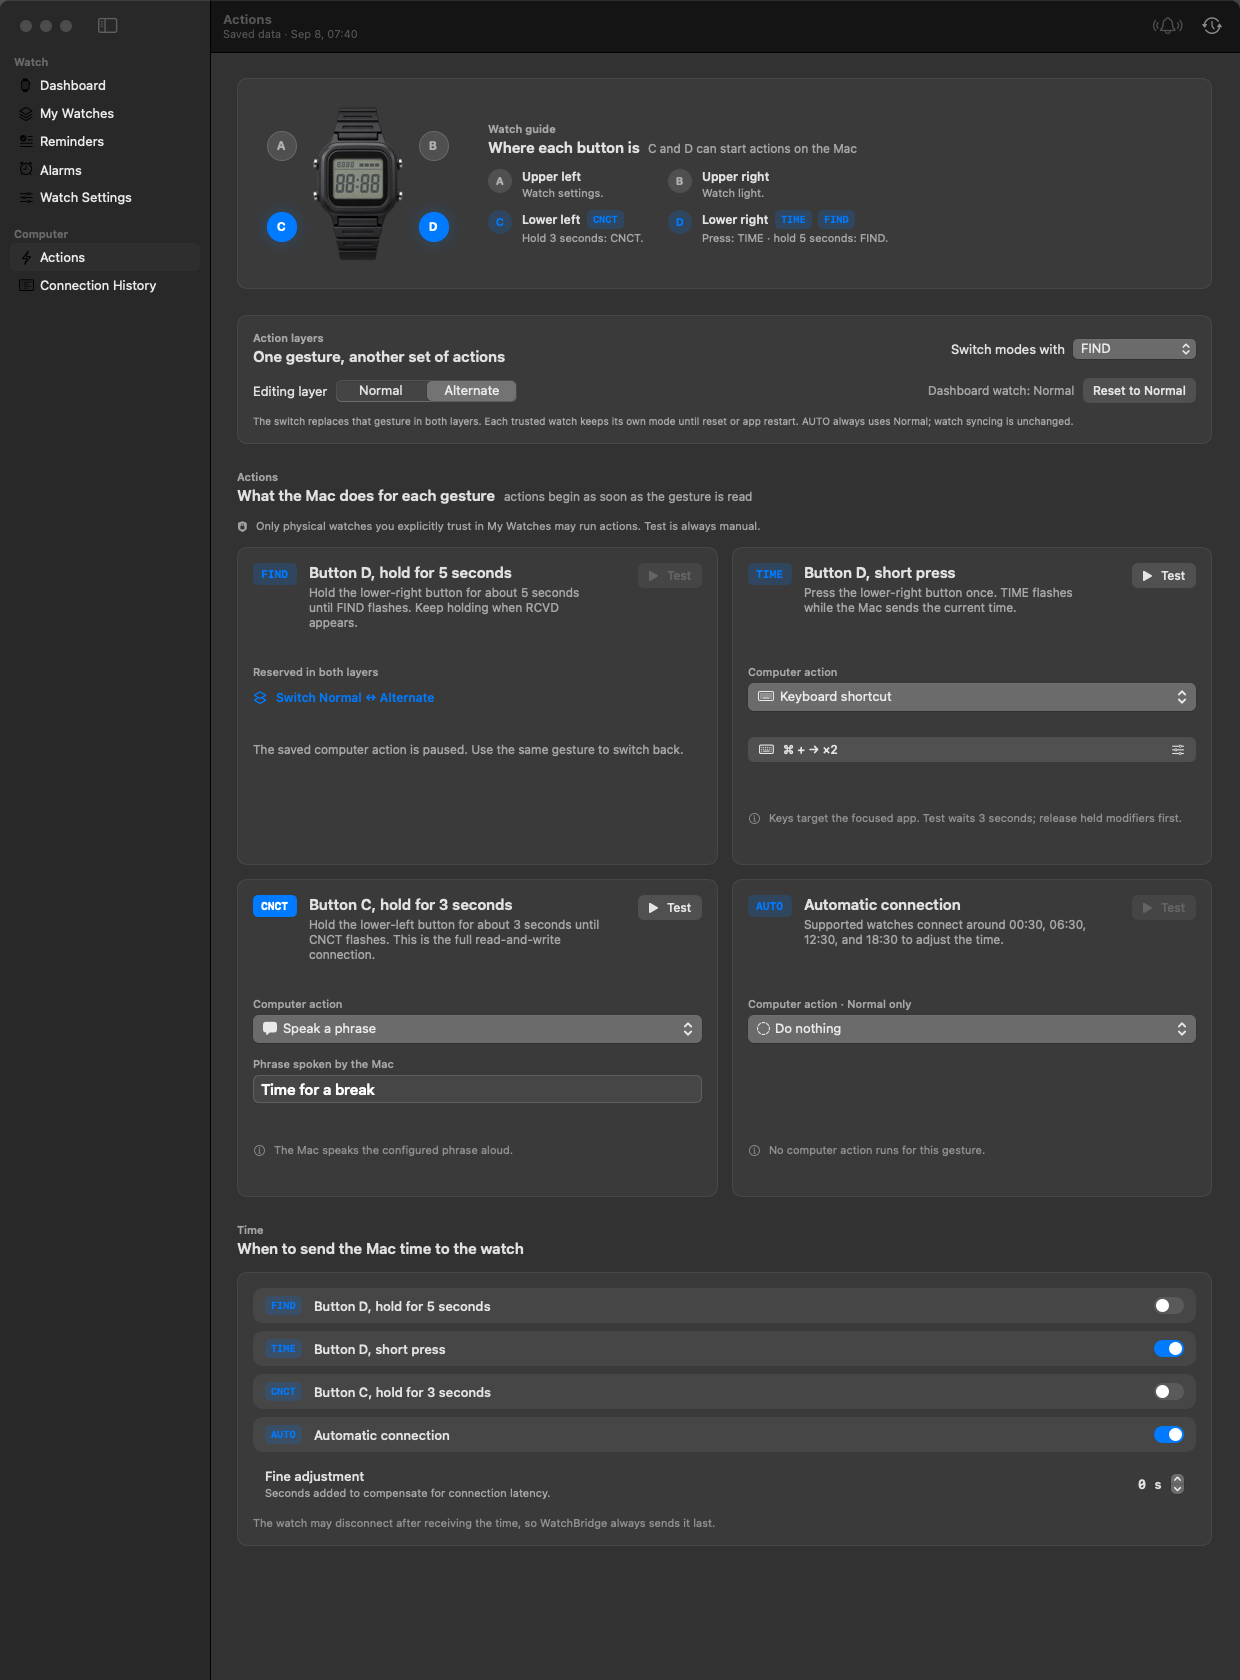
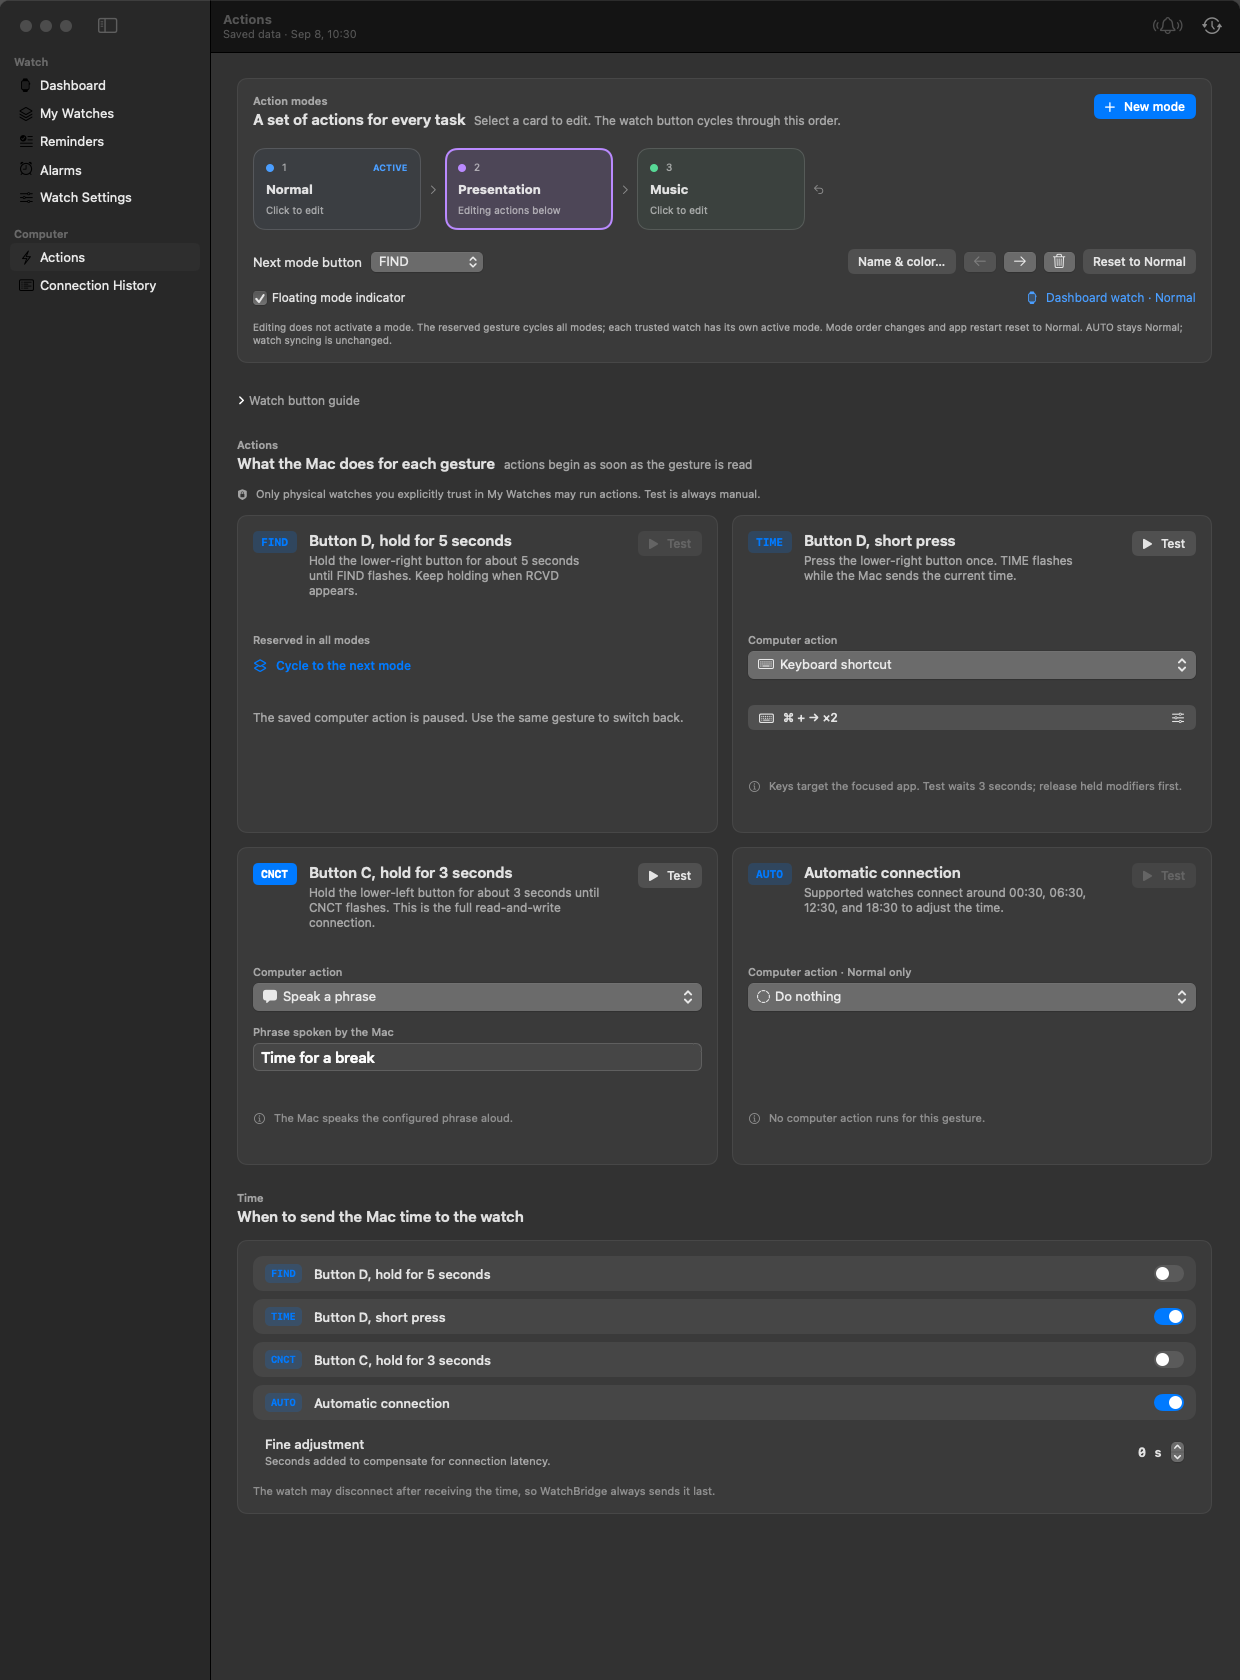
Polish mode help and verify native recorder layouts

diff --git a/apps/macos/Sources/WatchBridge/UI/ActionsView.swift b/apps/macos/Sources/WatchBridge/UI/ActionsView.swift
@@ -122,7 +122,7 @@ struct ActionEditor: View {
                     }
                 }
                 if isSwitch {
-                    Text("The saved computer action is paused. Use the same gesture to switch back.")
+                    Text("The saved computer action is paused. Repeat this gesture to cycle through your modes and return to Normal.")
                         .font(.callout).foregroundStyle(Theme.text2).frame(minHeight: 48)
                 } else if action.kind == .keyboard {
                     Button { showingKeyboard = true } label: {

diff --git a/crates/windows/src/main.rs b/crates/windows/src/main.rs
@@ -41,9 +41,9 @@ fn main() -> anyhow::Result<()> {
             env_flag("--keyboard"),
             env_flag("--minimum-size"),
             if env_flag("--second-row") {
-                880.0
+                1040.0
             } else if env_flag("--cards") {
-                370.0
+                540.0
             } else {
                 0.0
             },

diff --git a/design-qa.md b/design-qa.md
@@ -6,10 +6,10 @@ The committed images in `docs/screenshots/` are **offscreen full-window previews
 
 The intended layout retains the reference's prominent watch image, cached status and two-column action grid. A neutral shared watch PNG replaces manufacturer imagery; both Dashboard and button guide use it. Action cards reserve common header/control/value/help regions.
 
-The current Dashboard, Actions and keyboard images were generated in [CI run 34200458420](https://github.com/WerrySs/watch-actions-gshock-casio/actions/runs/34200458420), from commit `496794e`, and inspected before inclusion. Default previews are 1240 × 800; the full Actions page uses 1240 × 1680. The same run includes 1080 × 700 minimum-size views and minimum-width full-page layer cards. My Watches remains the inspected [CI run 34106828540](https://github.com/WerrySs/watch-actions-gshock-casio/actions/runs/34106828540) fixture from `44d413b`; its view has not changed.
+The Actions and keyboard README images come from inspected [CI run 34215691461](https://github.com/WerrySs/watch-actions-gshock-casio/actions/runs/34215691461) fixtures at `104af5c`, showing named modes and the recorder. The same run includes minimum-width modes, expanded manual controls and the indicator. Dashboard remains the inspected [CI run 34200458420](https://github.com/WerrySs/watch-actions-gshock-casio/actions/runs/34200458420) fixture at `496794e`; My Watches remains [CI run 34106828540](https://github.com/WerrySs/watch-actions-gshock-casio/actions/runs/34106828540) at `44d413b`. Default previews are 1240 × 800; full Actions pages are 1240 × 1680, or 1080 wide at minimum size. These are representative layout previews; later help-text changes are reviewed in the CI artifacts.
 
 1. **Dashboard:** the default-size view fits saved readings and four gesture rows alongside the watch and sidebar. Identity controls are consolidated. At minimum size the content scrolls and long action labels truncate; interactive keyboard/tooltips still need checking.
-2. **Actions:** the full-page view shows four equal-height cards with aligned headers/selectors and the A/B/C/D guide. The default/minimum window scrolls inside the content, leaving navigation in place.
+2. **Actions:** the full-page view shows numbered modes, four equal-height gesture cards with aligned headers/selectors, and a collapsible A/B/C/D guide. The default/minimum window scrolls inside the content, leaving navigation in place.
 3. **My Watches:** two sample units fit at default size, with paired/trusted and registered/not-paired states distinguished. Model, local-photo, favorite and explicit-link controls remain visible.
 
 Source screenshots supplied by the owner are not committed: they include unrelated notifications and third-party product photography. The README uses only generated sample data and the project's neutral illustration, not an official model photograph.
@@ -20,7 +20,7 @@ The Dashboard now uses the watch name as the watch selector, with model/photo/fa
 
 ## Action-layer update — September 8, 2026
 
-The macOS target/protection banner now participates in the detail column's layout below the toolbar, leaving page headings unobscured. The Dashboard halo reaches full transparency inside the image bounds instead of using an oversized blurred texture. The Actions editor adds distinct active/edited layers and keeps common card heights; its visual keyboard has six key rows, explicit modifier selection, a repeat count and a safe-test notice.
+The first action-layer update placed the macOS target/protection banner in the detail column's layout below the toolbar, leaving page headings unobscured. The Dashboard halo reaches full transparency inside the image bounds instead of using an oversized blurred texture. That update added distinct active/edited layers and common card heights; its six-row visual keyboard has since been replaced by the recorder described below.
 
 Local sample-data renders were inspected for the keyboard, layer cards, Dashboard and default/minimum-size settings banner. The banner/content gap and halo fade are visible; macOS 26 still leaves offscreen sidebar/toolbar glass blank, so those full-window local images are not publication assets. CI renders keyboard, default/minimum settings, and full-page action-layer fixtures for review. Full-page fixtures are now 1240 × 1680 (or 1080 wide with `--minimum-size`) so the new controls do not truncate the time-sync section. Use `--action-layers --only actions` to select the new sample configuration and `--only keyboard` for the standalone keyboard.
 
@@ -41,6 +41,8 @@ The keyboard grid is replaced by an explicit Record/Stop flow and numbered key c
 Modes have numbered color-coded cards, separate active/editing text, name/color controls, reorder arrows and a deletion confirmation. The macOS button guide is collapsible so the mode controls and actions get priority. The optional Mac indicator uses a black capsule below the usable screen's top edge; it is nonactivating/click-through rather than a notch overlay. A pure frame test covers positive and negative-origin screen coordinates. Its sample render is not a photograph of a real notch or a multi-display acceptance result.
 
 Local minimum-size recorder, expanded manual, mode-card and name/color renders were inspected. Mac offscreen glass still leaves blank sidebar regions locally, so full-window README screenshots must come from inspected native CI outputs. Windows local renders here ran its production renderer on macOS; native Windows CPU fixtures are a separate required CI review. Neither certifies actual Windows input, GPU/Mica, screen-reader navigation, or Mac Spaces/menu-bar rendering.
+
+Native Windows CPU fixtures from CI 34215691461 were inspected at both sizes: recorder controls, mode editing and both equal-height card rows fit. The expanded manual editor's footer is inside its panel. Follow-up changes make its sequence rows denser so two taps fit without partial clipping, update the reserved-gesture help to describe a multi-mode cycle, and retarget the sample scroll offsets to the taller mode section. The documented CPU gradient seam remains a fixture limitation, not a retouched image or a GPU acceptance pass.
 
 ### Interactive checks still required
 

diff --git a/docs/VALIDATION.md b/docs/VALIDATION.md
@@ -8,7 +8,7 @@ Native Windows execution is checked on the Windows CI runner, not inferred from 
 
 The September 8 action-layer/keyboard review adds legacy action decoding and schema migration, per-watch mode/trust isolation, switch reversibility, AUTO routing, invalid key/repeat rejection and balanced native modifier-release plans (including partial Windows insertion cleanup). Local checks passed 27 Rust-core tests and 20 Swift tests plus Windows MSVC-target linting. Native Windows tests run in CI. None of these tests sends input into a user's desktop or substitutes for physical BLE/permission/focus acceptance; see [Action layers](ACTION_LAYERS.md).
 
-The subsequent recorder/multiple-mode change adds shared recording tests (including two distinct Command taps), migration of the old Alternate actions, named/color mode order, deletion/stale-ID handling, local-event adapters and indicator frame geometry. Local tests passed 34 Rust-core and 26 Swift tests. The Rust Windows client also builds/lints locally; native Windows input-plan and event-mapping tests run only on the Windows CI runner. Recording and playback were not exercised against an uncontrolled desktop.
+The subsequent recorder/multiple-mode change adds shared recording tests (including two distinct Command taps), migration of the old Alternate actions, named/color mode order, deletion/stale-ID handling, local-event adapters and indicator frame geometry. [CI 34215691461](https://github.com/WerrySs/watch-actions-gshock-casio/actions/runs/34215691461) passed every native/security job and Required checks at `104af5c`: 34 Rust-core tests on Unix (33 on Windows), 26 Swift tests and 14 native Windows-client tests. Both clients packaged and passed no-BLE startup checks; all three downloaded archive checksums and both ZIP integrity checks passed locally. The Rust Windows client also builds/lints locally on macOS, which is not Windows execution evidence. Recording and playback were not exercised against an uncontrolled desktop. Subsequent review refinements are validated separately in the PR checks.
 
 macOS screenshots are sample-data offscreen renders. The [design validation scope](../design-qa.md) explicitly separates those from interactive testing.
 

diff --git a/CHANGELOG.md b/CHANGELOG.md
@@ -25,7 +25,7 @@ All notable changes are documented here. This project follows Semantic Versionin
 - Place macOS target/protection banners inside the detail layout, above page content, instead of over navigation and headings.
 - Fade the Dashboard watch halo to transparent inside its bounds, removing clipped glow edges and the oversized blur.
 - Keep Dashboard, button sheets and action editors consistent about the active versus edited layer; identify AUTO as Normal-only.
-- Initialize Windows keyboard rows once instead of rebuilding the key grid on state refresh.
+- Initialize the Windows manual-key catalog once instead of rebuilding it on state refresh.
 - Give the conditional Windows main layout explicit bounds, equal-width gesture cards and bounded Test buttons; keep key labels and keyboard-editor buttons inside the panel.
 - Match Windows widget colors to the app's dark surfaces even when the operating system uses a light theme, preserving keyboard-modifier label contrast.
 - Bind pending changes to physical watch IDs, preserve edits made while an older value is in flight, and quarantine legacy global queues.

diff --git a/README.md b/README.md
@@ -69,11 +69,11 @@ On macOS, click the watch name to choose the Dashboard watch or follow the most 
 ## Explore the interface
 
 <details>
-<summary>Actions — physical button guide and aligned gesture cards</summary>
+<summary>Actions — named modes and aligned gesture cards</summary>
 
 Create and reorder named modes, recognize the active mode by its name and color, and configure each supported gesture. The button guide explains A, B, C and D. The development preview reserves FIND for mode cycling. Test buttons are manual actions; physical watches require explicit trust.
 
-![Full-page macOS Actions preview with sidebar, four aligned cards and button guide](docs/screenshots/actions.png)
+![Full-page macOS Actions preview with sidebar, named mode cards and four aligned gestures](docs/screenshots/actions.png)
 
 </details>
 
